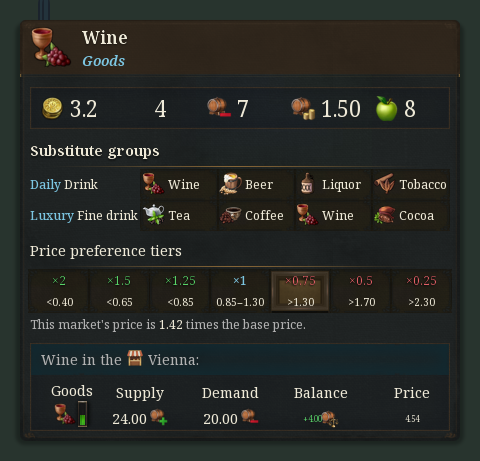
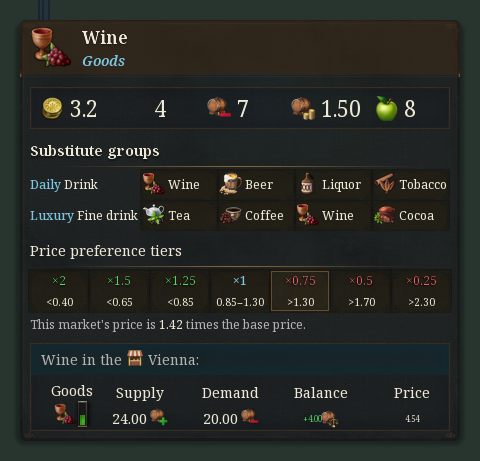
改为 1 像素细金边，保留淡金底色

Changed region(s): [[0.5625, 0.577, 0.6875, 0.6985]]

diff --git a/scripts/gen_sol_goods_tooltip.py b/scripts/gen_sol_goods_tooltip.py
@@ -242,10 +242,19 @@ def price_template(market: bool = False) -> str:
     for index, (weight, label, interval, color) in enumerate(PRICE_TIERS):
         lines.append(f'\t\t\tvbox = {{ size = {{ 58 40 }} layoutpolicy_horizontal = fixed spacing = 2 using = bg_number_container_bckg tooltip = "SOL_GOOD_PRICE_TIER_{index}"')
         if market:
-            lines.append(
+            lines += [
                 f'\t\t\t\twidget = {{ name = "sol_price_tier_active_{index}" size = {{ 58 40 }} ignore_layout = yes '
-                f'visible = "[{price_tier_condition(interval)}]" using = bg_square_gold_tile }}'
-            )
+                f'visible = "[{price_tier_condition(interval)}]"',
+                '\t\t\t\t\tbackground = { using = color_gold_texture alpha = 0.07 }',
+            ]
+            # Four flat one-unit edges avoid the thick bevel of a framed tile.
+            for width, height, x, y in ((58, 1, 0, 0), (58, 1, 0, 39),
+                                       (1, 38, 0, 1), (1, 38, 57, 1)):
+                lines.append(
+                    f'\t\t\t\t\twidget = {{ size = {{ {width} {height} }} position = {{ {x} {y} }} '
+                    'background = { using = color_gold_texture alpha = 0.65 } }'
+                )
+            lines.append('\t\t\t\t}')
         lines += [
             f'\t\t\t\ttext_single = {{ size = {{ 58 19 }} autoresize = no align = center fontsize = 13 raw_text = "#{color} ×{weight}#!" }}',
             f'\t\t\t\ttext_single = {{ size = {{ 58 17 }} autoresize = no align = center fontsize = 11 raw_text = "{label}" }}',

diff --git a/docs/knowledge/BRIEF.md b/docs/knowledge/BRIEF.md
@@ -240,7 +240,7 @@ The 1.3 SOL demand runtime no longer uses `gen_scarcity.py`, `gen_sol_ui.py`, `e
 
 | Category | Scope | Bad Form | Correct Form | Notes |
 | --- | --- | --- | --- | --- |
-| gui | any | Highlighting a price preference tier from the displayed/rounded ratio, or putting market-dependent selection in the generic goods legend | Use a market-only price legend and select exactly one tier by comparing actual price to base price multiplied by each strict/inclusive threshold. Draw the verified gold tile as a sized, conditional ignore-layout child before the text; keep generic/card legends static and hide selection for zero base prices, invalid markets and ungrouped goods. | Vanilla source and offline expression/pixel checks, 2026-10-15. Market ratios are display values, not the adopted country multiplier; current-tier selection matches the runtime price comparisons without dividing first. New in-game confirmation pending. |
+| gui | any | Highlighting a price preference tier from the displayed/rounded ratio, or putting market-dependent selection in the generic goods legend | Use a market-only price legend and select exactly one tier by comparing actual price to base price multiplied by each strict/inclusive threshold. Draw a one-unit gold outline and faint fill as a sized, conditional ignore-layout child before the text; keep generic/card legends static and hide selection for zero base prices, invalid markets and ungrouped goods. | Vanilla source and offline expression/pixel checks, 2026-10-15. Market ratios are display values, not the adopted country multiplier; current-tier selection matches the runtime price comparisons without dividing first. New in-game confirmation pending. |
 | gui | any | Treating SOL basket-cell hover text as the actual goods tooltip redesign, or reading a Market in the shared goods_details template | Goods_tooltip, Goods_Cards_tooltip and SpecificGoodsMarket_tooltip all inline goods_details. Put static group membership and price preferences there; expose a slot whose market-specific override is supplied only at SpecificGoodsMarket_tooltip, where Market.GetMarketEntry(Goods.Self) already supplies the market entry. Preserve the full vanilla file when overriding its path. | Source evidence, 2026-10-15. Sheet C rows include the current good and every member of every matching group. Seven static preferences follow strict runtime thresholds; only a market tooltip adds the live price/base-price ratio, with a protected denominator. Bilingual previews do not establish in-game hover behavior. |
 | scope | country | Attributing default monthly AI cost to the entire substitution aggregate, or assuming solver/substitution toggles skip every newly added runtime cost | Trace monthly and yearly callers separately. Clean reduced-frequency AI only checks snapshots and applies modifiers; dirty AI enters the full solve. Country substitution refresh precedes size/solver gates, and substitution-off still computes per-good external spending. Count actual dirty solves and successful modifier writes before claiming engine-time attribution. | Source and offline operation-count audit, 2026-10-14. A 7-to-215 map-read increase is confined to location recomputation, not every clean AI month. Existing logs are not an effect-time profiler. |
 | gui | any | Drawing a translucent goods icon over an always-visible opaque copy to indicate unavailable supply | Make the full and dim copies mutually exclusive with visible bindings. Verify rendered pixels as well as the alpha property. | Source and renderer pixel evidence, 2026-10-13: alpha 0.3 over the opaque original leaves it bright. |

diff --git a/docs/guides/EU5_GUI_Modding_Guide.md b/docs/guides/EU5_GUI_Modding_Guide.md
@@ -238,8 +238,10 @@ and invalid markets. It is a live reference price, not the cached applied countr
 multiplier. Preference boundaries match sol_substitution.py:29, including strict
 comparisons at 0.40/0.65/0.85/1.30/1.70/2.30; column tooltips spell out full intervals.
 The market-only `SOL_goods_market_price_tiers` highlights exactly one current
-tier with `bg_square_gold_tile` (backgrounds.gui:3176), drawn as a sized
-`ignore_layout = yes` child before the text. Compare the live price directly
+tier with a 1 GUI-unit gold outline and a faint gold fill, drawn as a sized
+`ignore_layout = yes` child before the text. Four flat edge widgets use
+`color_gold_texture` (window_components.gui:26); the beveled `bg_square_gold_tile`
+was too heavy in the user's runtime screenshot. Compare the live price directly
 against `Multiply_CFixedPoint(base_price, threshold)`, matching the runtime;
 formatting or rounding the ratio first can select the wrong boundary tier.
 Generic/card legends have no active tier, and invalid markets, zero base prices
